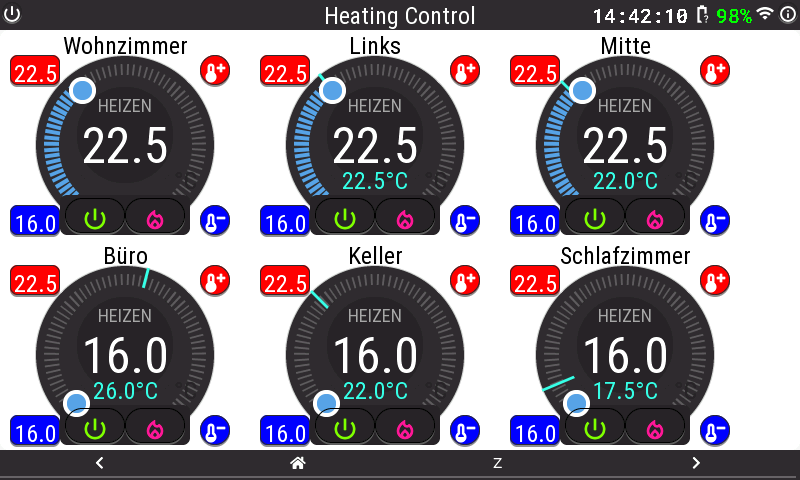
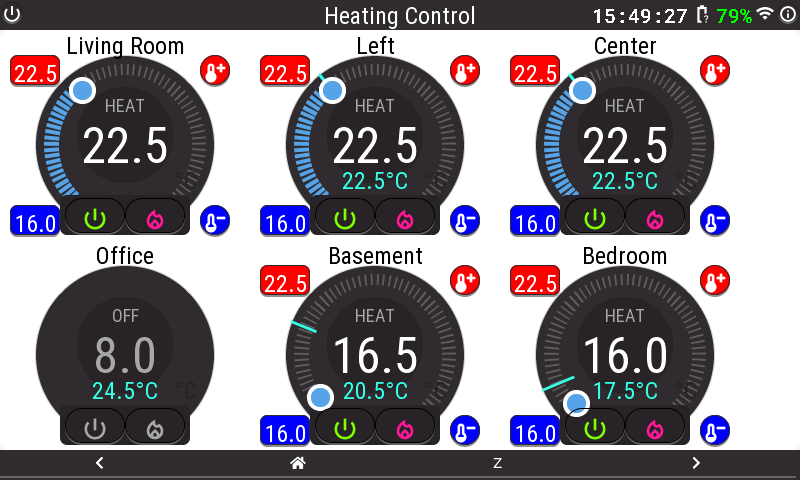
Refactor UI labels and translations for climate control; update .gitignore and remove unused image

diff --git a/README.md b/README.md
@@ -2,7 +2,8 @@
 
 
 ## Purpose
-Provide an panel display for Home-Assistant based on [ESPHome](https://esphome.io/)
+Provide an panel display for Home-Assistant based on [ESPHome](https://esphome.io/).
+
 Instructions for building, flashing and testing the ESPHome configuration file named `7i-sample.yaml`.
 
 included is a component that provides screenshots from the device via http.
